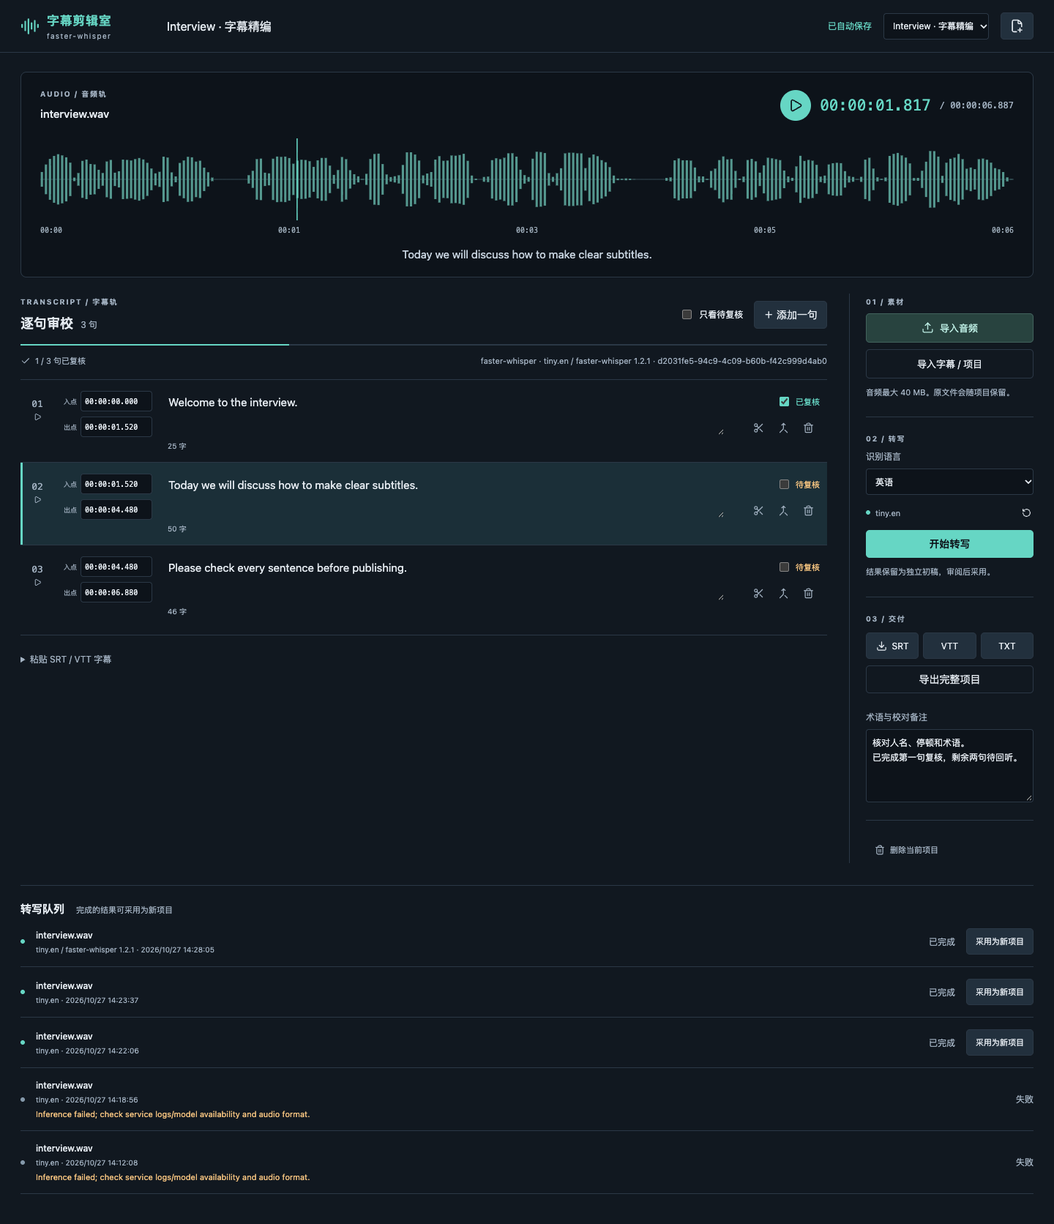
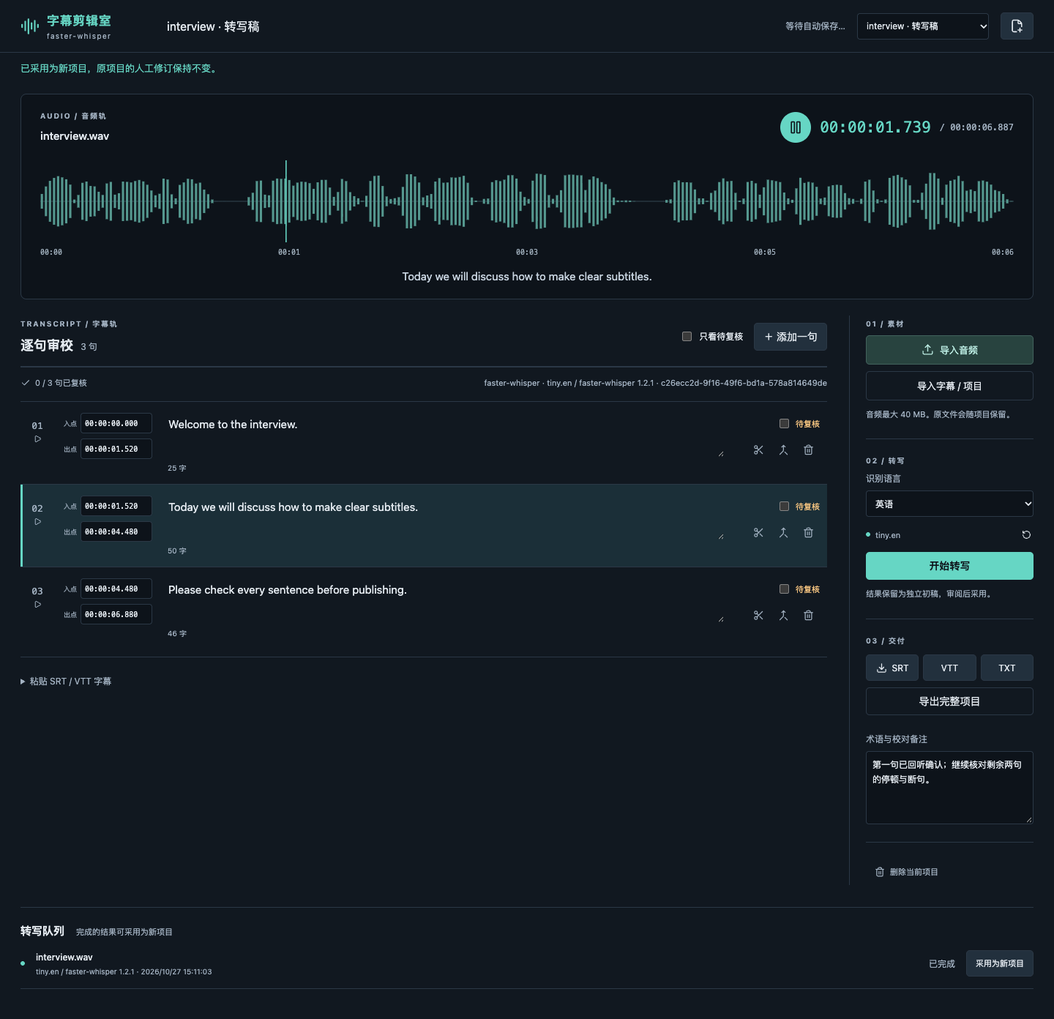
docs: publish AI workbench 0.4.0 acceptance and screenshot gallery

diff --git a/README.md b/README.md
@@ -6,9 +6,9 @@
 
 ## 当前进度
 
-当前版本 **0.3.0** · **26 / 55 个工作台已完成本地验收**，其余 29 个为计划项目。各上游库的集成范围以项目 README 为准。Floatboat 客户端导入流程尚未实测。
+当前批次 **0.4.0** · **32 / 61 个工作台已完成本地功能验收**，其余29个为计划项目。新增6个AI工作台为0.4.0，既有26个保留0.3.0版本与验收记录。Floatboat客户端导入尚未实测。
 
-本轮由 **10 个子 agent、10 个独立 worktree** 完成第 18–27 项，按环境上限保持 3 个子 agent 同时运行并陆续补位。全部 26 项使用同一版自动保存修复：快速编辑后撤回时恢复正确的保存状态和本机内容，旧缓存、异步验证、失败重试与冲突分别处理。
+本批在6个独立worktree分批并行实现。自动保存、未完成草稿、冲突与容量边界是共同验收项；界面按产品任务分别设计。AI引擎、模型和外部服务的验证范围单列在[0.4.0验收](docs/release-0.4.0.md)，配置方式见[AI服务说明](docs/ai-services.md)。
 
 | 项目 | 已实现流程 | 界面方向 |
 | --- | --- | --- |
@@ -38,20 +38,26 @@
 | [farmOS-map](workbenches/53-farmos-map/) | 地块绘制、边界调整、备注与 GeoJSON 导出 | 地图与地块记录 |
 | [Mirador](workbenches/54-mirador/) | 本地图像、双页对照、逐页复核与报告导出 | 双图光台与复核账本 |
 | [OpenSheetMusicDisplay](workbenches/55-opensheetmusicdisplay/) | MusicXML/MXL 导入、谱面校审、批注及原件/SVG 导出 | 乐谱纸张与边注 |
+| [LangExtract](workbenches/56-langextract/) | 原文、JSONL证据定位、字段复核、人工修订与CSV/JSONL/项目导出 | 原文纸张与证据账本 |
+| [Docling](workbenches/57-docling/) | DoclingDocument结构树、文本/表格校订、顺序、JSON/Markdown/CSV与HTML连接器 | 结构轨、校样纸张与表格检查器 |
+| [LangGraph.js](workbenches/58-langgraph/) | 真实StateGraph、人工中断/恢复、SQLite检查点、交付与项目导出 | 三站复核流程与运行账本 |
+| [Promptfoo](workbenches/59-promptfoo/) | 真实评测结果矩阵、基线、人工复核、限定套件执行器与CSV/JSON导出 | 用例×版本矩阵与结果对照 |
+| [faster-whisper](workbenches/60-faster-whisper/) | 音频保存/回听、真实CPU转写、字幕时间编辑与SRT/VTT/完整项目导出 | 暗色波形、字幕行与任务队列 |
+| [Presenton](workbenches/61-presenton/) | 资料、大纲、页序、备注、审阅、便携稿与异步制作服务连接器 | 逐页缩略轨、演示舞台与资料简报 |
 
-统一验证：**26 项构建、208 项应用测试、3 项工具测试、26 个源包**通过；另有最终共享客户端的 9 组 Chrome/SQLite 核心回归及旧缓存/畸形响应补充检查。业务浏览器证据与范围见 [0.3.0 发布验收](docs/release-0.3.0.md)。
+本批统一验证：**6项构建、106项应用测试、14项独立服务测试、3项工具测试和6个源码包**通过。真实上游执行包含LangGraph流程恢复、Promptfoo回显评测、Docling HTML转换和faster-whisper英语CPU转写；其他模型/服务条件见发布验收。
 
-历史批次：[0.2.0 自动保存与布局](docs/release-0.2.0.md)、[2–11 批次验收](docs/batch-02-11.md)。历史真实 Host 调用记录保留，此轮没有重新执行这些模型调用。
+既有26项的构建、208项应用测试与源码包记录见[0.3.0验收](docs/release-0.3.0.md)，本批未重跑未修改的既有应用。历史批次：[0.2.0](docs/release-0.2.0.md)、[2–11](docs/batch-02-11.md)。
 
 仓库级 React Best Practices 与 Web Design Guidelines 已安装，入口见 `AGENTS.md`；各产品的设计原则见 [设计说明](docs/design-principles.md)。
 
 行业补充调研：[28 个小众行业候选](docs/research/niche-industry-candidates.md)。Maker.js、SeqViz、farmOS-map、Mirador 与 OpenSheetMusicDisplay 已实现；其余候选仍处于研究或计划阶段。第12–17项的独立服务接入条件见各自目录。
 
-AI 补充调研：[32 个 AI 项目与工作台选型](docs/research/ai-workbench-candidates.md)。覆盖文档抽取、知识图谱、Agent、评测、字幕、配音、课件和视觉生成，另含 3 个通用组件；已列明接口、独立服务、模型许可和维护边界。首批建议验证 LangExtract、Docling、LangGraph.js、Promptfoo、faster-whisper、Presenton，目前均为研究状态，不计入已实现数量。
+AI 补充调研：[32 个 AI 项目与工作台选型](docs/research/ai-workbench-candidates.md)。覆盖文档抽取、知识图谱、Agent、评测、字幕、配音、课件和视觉生成，另含 3 个通用组件；已列明接口、独立服务、模型许可和维护边界。其中6项已完成本地功能验收，其余26项仍处于研究阶段；正式模型/外部服务范围以各项目说明为准。
 
 ## 工作台实景
 
-以下为 26 个已实现项目的真实 Chrome 界面，使用普通示例资料。点击预览进入项目说明；图片未经过界面合成或像素修饰。采集版本、原始尺寸与哈希见 [截图说明](docs/screenshots/README.md)。
+以下为 32 个已验收本地工作台的真实 Chrome 界面，使用普通示例资料。点击预览进入项目说明；图片未经过界面合成或像素修饰。采集版本、原始尺寸与哈希见 [截图说明](docs/screenshots/README.md)。
 
 | | |
 | --- | --- |
@@ -68,6 +74,9 @@ AI 补充调研：[32 个 AI 项目与工作台选型](docs/research/ai-workbenc
 | **[GrapesJS · 页面设计](workbenches/27-grapesjs/)**<br>[<img src="docs/screenshots/grapesjs.png" alt="GrapesJS · 页面设计工作台实景" width="440">](workbenches/27-grapesjs/) | **[Maker.js · 参数制图](workbenches/51-makerjs/)**<br>[<img src="docs/screenshots/makerjs.png" alt="Maker.js · 参数制图工作台实景" width="440">](workbenches/51-makerjs/) |
 | **[SeqViz · 序列审阅](workbenches/52-seqviz/)**<br>[<img src="docs/screenshots/seqviz.png" alt="SeqViz · 序列审阅工作台实景" width="440">](workbenches/52-seqviz/) | **[farmOS-map · 地块](workbenches/53-farmos-map/)**<br>[<img src="docs/screenshots/farmos-map.png" alt="farmOS-map · 地块工作台实景" width="440">](workbenches/53-farmos-map/) |
 | **[Mirador · 文献对照](workbenches/54-mirador/)**<br>[<img src="docs/screenshots/mirador.png" alt="Mirador · 文献对照工作台实景" width="440">](workbenches/54-mirador/) | **[OpenSheetMusicDisplay · 乐谱校审](workbenches/55-opensheetmusicdisplay/)**<br>[<img src="docs/screenshots/opensheetmusicdisplay.png" alt="OpenSheetMusicDisplay · 乐谱校审工作台实景" width="440">](workbenches/55-opensheetmusicdisplay/) |
+| **[LangExtract · 原文纸张与证据账本](workbenches/56-langextract/)**<br>[<img src="docs/screenshots/langextract.png" alt="LangExtract 工作台实景" width="440">](workbenches/56-langextract/) | **[Docling · 结构轨、校样纸张与表格检查器](workbenches/57-docling/)**<br>[<img src="docs/screenshots/docling.png" alt="Docling 工作台实景" width="440">](workbenches/57-docling/) |
+| **[LangGraph.js · 三站复核流程与运行账本](workbenches/58-langgraph/)**<br>[<img src="docs/screenshots/langgraph.png" alt="LangGraph.js 工作台实景" width="440">](workbenches/58-langgraph/) | **[Promptfoo · 用例×版本矩阵与结果对照](workbenches/59-promptfoo/)**<br>[<img src="docs/screenshots/promptfoo.png" alt="Promptfoo 工作台实景" width="440">](workbenches/59-promptfoo/) |
+| **[faster-whisper · 暗色波形、字幕行与任务队列](workbenches/60-faster-whisper/)**<br>[<img src="docs/screenshots/faster-whisper.png" alt="faster-whisper 工作台实景" width="440">](workbenches/60-faster-whisper/) | **[Presenton · 逐页缩略轨、演示舞台与资料简报](workbenches/61-presenton/)**<br>[<img src="docs/screenshots/presenton.png" alt="Presenton 工作台实景" width="440">](workbenches/61-presenton/) |
 
 自动保存区分待保存、同步中、已保存、待完善草稿、离线和版本冲突。后台保存时仍可编辑；项目导入创建独立项目，未完成输入可恢复。浏览器本机缓存限定同一来源。
 

diff --git a/docs/release-0.4.0.md b/docs/release-0.4.0.md
@@ -1,0 +1,63 @@
+# 0.4.0 AI 工作台验收
+
+日期：2026-10-27。本批新增6个独立工作台，仓库共32个完成本地功能验收、29个计划项目。六项都包含自动保存、可恢复工作稿、人工编辑/复核和导出；模型与独立服务的真实执行范围分别记录。既有26项仍为0.3.0，本批未修改其业务源码或重跑其全部验收。
+
+六个Git worktree分批并行，五个实现子代理与主线程分别负责产品；集成时另做独立只读审查和针对性修复。没有改动固定模板SDK、tooling或CSP。模板仍固定在 `3b55d46f7ae25e939ce3299073c37ed334d69c02`。
+
+## 检查结果
+
+主仓库完成 **6项构建、106项应用测试、14项独立服务测试、3项工具测试及6个源码包**。应用测试总数采用最终Presenton修复后的29项；主仓库整批检查后，对其修复重新检查、测试和打包。Docling的应用包版本也已对齐0.4.0并重新检查/打包。
+
+| 工作台 | 应用测试 | 服务测试 | 已验证的本地工作流与真实上游范围 |
+| --- | ---: | ---: | --- |
+| [LangExtract](../workbenches/56-langextract/ACCEPTANCE.md) | 17 | 7 | JSONL证据定位、修订、导出；真实LangExtract管线使用明确stub provider，**不是模型推理** |
+| [Docling](../workbenches/57-docling/app/ACCEPTANCE.md) | 23 | — | 结构/文本/表格校订、顺序、导出；真实Docling core转换HTML并回读校订JSON |
+| [LangGraph.js](../workbenches/58-langgraph/ACCEPTANCE.md) | 11 | — | 真实StateGraph运行、中断、人工复核、SQLite检查点及进程重启恢复 |
+| [Promptfoo](../workbenches/59-promptfoo/ACCEPTANCE.md) | 11 | 3 | 真实结果矩阵、基线、人工复核；真实Promptfoo evaluator回显评测及Node执行器 |
+| [faster-whisper](../workbenches/60-faster-whisper/ACCEPTANCE.md) | 15 | 4 | 音频保存/回听、字幕编辑/导出；真实tiny.en CPU INT8转写，主仓库再次完整验证 |
+| [Presenton](../workbenches/61-presenton/app/ACCEPTANCE.md) | 29 | — | 大纲/逐页审阅/导出、持久制作记录；官方异步API与下载的合同测试，live生成未验证 |
+
+服务测试数字包括边界/队列/HTTP合同验证，不代表相同数量的模型调用。Docling和Presenton的HTTP fixture测试计入应用测试，未算作真实上游运行。所有六项均运行了真实Chrome主任务与响应式检查，截图为浏览器原图。
+
+环境：Node22.22.2、pnpm10.22.0、Python3.12.13、Chrome headless。部分单页及共享自动保存模块触发体积提示，未压制检查；没有类型、构建或测试失败留待发布后处理。
+
+## 自动保存与运行状态
+
+除了普通编辑/刷新，本批验证：保存响应延迟期间继续输入；服务已提交但回执丢失后的同mutation重试；未完成JSON/日期/字幕时间草稿；新项目导入不覆盖旧项目；两窗口冲突和本机恢复；完整项目与普通导出。正式模型和工作稿采用不同边界，达到模型容量后仍可恢复、导出和导入工作稿。超出工作稿或传输容量时明确提示，不能显示成服务器已保存。
+
+集成审查修复并回归了以下边界：
+
+- LangExtract服务响应必须对应原任务ID和输入来源。
+- Promptfoo任务终态不能被迟到提交/轮询覆盖；未确认操作阻止无提示新建；新报告校准基线列。
+- Promptfoo数据型字段拒绝环境模板、文件/包/外部提示引用；固定套件只保留声明的字面数据与简单变量，实际调用上游前进行验证。
+- LangExtract、Docling、Promptfoo、faster-whisper及Presenton工作稿独立恢复，便携文件包含未完成编辑输入。容量回归覆盖真实SQLite关闭重开、浏览器刷新和导入往返。
+- faster-whisper取消/完成状态不会被迟到结果复活，远程服务要求HTTPS，响应大小限制后关闭读取。
+- Presenton在提交前持久化本地操作；丢回执且列表/详情查询失败时仍保留未知状态，刷新后按原ID核对。再次制作需要明确确认。便携/恢复导入不再清除未完成JSON。
+
+这些是应用内恢复保证；未宣称任意第三方模型请求可以exactly-once计费。关闭页面或停止本地跟踪也不等于取消上游已发出的推理。IndexedDB仅在同一浏览器来源内恢复，跨端口、设备或安装应使用合适的便携文件/数据迁移。
+
+## 上游与交付边界
+
+- **LangExtract**：真实模型提供方尚未配置/验证；可使用本地JSONL资料审校。没有Host→Python provider bridge。
+- **Docling**：本版上传HTML；校订DoclingDocument JSON。没有实现PDF/DOCX上传或预览、OCR和视觉模型；官方Serve live往返未验证。
+- **LangGraph**：填写资料模式实际执行核心库。Host模型分支已实现，当前Host断开，未取得真实成功输出。
+- **Promptfoo**：真实运行的是回显提供者及断言，不是模型效果测试。模型模式需要在独立执行器配置提供方。
+- **faster-whisper**：只验证tiny.en英语短录音、CPU INT8路线。其他语言/模型、GPU、长录音质量与容量不作已验证承诺。服务锁定PyAV16.0.1以匹配faster-whisper1.2.1。
+- **Presenton**：当前本地大纲与文稿流程可用。真实生成、上游PPTX/PDF渲染与文件递送需配置独立服务后验证；目前的HTTP fixture不代表真实文件生产链路。
+
+六个源码包均未经过Floatboat客户端导入验收。Python、模型、独立执行器、提供方凭据和预览数据不随普通源码包打包；后端部署步骤见[AI服务说明](ai-services.md)及各项目README。
+
+## 代码与截图
+
+产品结构分别为证据书桌、结构校样、三站复核、评测矩阵、字幕音轨和逐页演示舞台。各目录的 `app/DESIGN.md` 和 `app/ENGINEERING.md` 记录选择；React与Web界面规则已应用。截图、版本、尺寸和摘要见[截图清单](screenshots/README.md)。
+
+主仓库的批量命令可重跑：
+
+```sh
+pnpm batch check --from 56 --to 61
+pnpm batch test --from 56 --to 61
+pnpm batch package --from 56 --to 61
+pnpm test:tooling
+```
+
+批量日志保存在忽略的 `.cache/batch/`。公开源码只包含普通示例和验收结论；真实用户数据、模型缓存、测试临时库与连接配置没有入库。

diff --git a/docs/ai-services.md b/docs/ai-services.md
@@ -1,0 +1,38 @@
+# AI 工作台的运行方式
+
+0.4.0 的六个工作台都有本地项目、自动保存、草稿恢复、人工编辑和导出。模型与上游服务按下表独立配置。普通 `.fbworkbench` 是源码包，不包含运行中的服务、模型权重、凭据或开发预览数据；客户端导入尚未实测。
+
+| 工作台 | 无外部服务时可用 | 执行新任务所需 | 本次真实执行证据 |
+| --- | --- | --- | --- |
+| [LangExtract](../workbenches/56-langextract/README.md) | 文本/字段编辑、JSONL证据复核、修订与导出 | 独立Python LangExtract服务及模型提供方 | 真实库管线＋明确stub模型，非模型推理 |
+| [Docling](../workbenches/57-docling/README.md) | DoclingDocument JSON结构、文本和表格校订 | 官方Docling Serve；本版提交HTML | 真实Docling core的HTML转换与校订JSON回读；Serve live未测 |
+| [LangGraph.js](../workbenches/58-langgraph/README.md) | 填写资料、真实流程执行、人工暂停/恢复、交付记录 | 模型整理分支需要已连接Floatboat Host | 真实StateGraph/SQLite检查点及进程重启；Host成功调用未测 |
+| [Promptfoo](../workbenches/59-promptfoo/README.md) | 结果矩阵、基线比较、人工复核、原始结果/CSV | 独立Node执行器；模型模式另配提供方 | 真实Promptfoo evaluator回显评测，非模型质量评测 |
+| [faster-whisper](../workbenches/60-faster-whisper/README.md) | 音频保存/回听、字幕编辑和导出 | 独立Python推理服务及指定模型 | tiny.en CPU INT8真实转写，短英语录音完整链路 |
+| [Presenton](../workbenches/61-presenton/README.md) | 素材、大纲、逐页审阅和便携文稿 | 已部署Presenton服务、其API key与模型 | 接口合同与本地任务流程；真实生成/PPTX/PDF文件递送未测 |
+
+## 本地预览
+
+从仓库根目录运行 `pnpm workbench prepare <slug>`，再运行 `pnpm workbench dev <slug>`。工作台页面只访问自己的同源接口，Node服务再连接预先配置的上游。工作台中不能填写模型密钥；服务端环境配置不随项目/源码包导出。
+
+可以采用以下同机端口分配，避免不同服务占用同一端口；这不是自动部署命令：
+
+| 服务 | 示例地址 | 工作台进程的配置变量 |
+| --- | --- | --- |
+| LangExtract adapter | `http://127.0.0.1:8767` | `LANGEXTRACT_SERVICE_URL`、`LANGEXTRACT_SERVICE_TOKEN` |
+| faster-whisper adapter | `http://127.0.0.1:8768` | `FASTER_WHISPER_URL`、可选 `FASTER_WHISPER_TOKEN` |
+| Promptfoo runner | `http://127.0.0.1:8770` | `PROMPTFOO_RUNNER_URL`、可选 `PROMPTFOO_RUNNER_TOKEN` |
+| Docling Serve | `http://127.0.0.1:5001` | `DOCLING_SERVE_URL`、按服务配置 `DOCLING_SERVE_API_KEY` |
+| Presenton | `http://127.0.0.1:5002` | `PRESENTON_URL`、`PRESENTON_API_KEY` |
+
+每个项目README给出精确依赖和启动方法。Presenton官方示例常用5001端口，同时运行Docling时应将其主机端口映射为5002并对应修改URL。远程地址使用HTTPS，来源/鉴权约束按各连接器校验。不要把模型key写进公开脚本、项目JSON或截图。
+
+LangGraph模型整理走真正的Host SDK，由Floatboat管理模型与凭据。本轮Host未连接；其他Python/HTTP服务不会因为Host有LLM能力就自动兼容它。LangExtract目前没有Host→Python provider bridge。
+
+## 保存与任务恢复
+
+编辑草稿与运行任务分开保存。完成的模型结果先进入独立结果/新项目，避免覆盖正在修改的内容。提交回执不明确时保留原操作标识并查询；仅在后端明确提供幂等协议时重试同一任务。Presenton/Docling的上游提交不按通用HTTP幂等服务处理；未确认时需要关联原任务或明确决定后续操作。
+
+每项有自己的容量上限。超过正式模型上限的未完成输入会保持草稿状态；支持恢复的工作稿仍有独立边界。UI会区分服务器保存、未完成草稿、本机保留、离线和冲突。IndexedDB恢复限定同一浏览器来源；改变预览端口或换设备不会自动迁移本机离线副本。较大资料应拆分项目，或使用便携导出转移。
+
+源码包默认不包含业务数据。Python与执行器目录随Git仓库提供；部署后端与安装工作台是两个步骤。批次验收、版本与各项限制见[0.4.0验收](release-0.4.0.md)。

diff --git a/docs/research/ai-workbench-candidates.md b/docs/research/ai-workbench-candidates.md
@@ -1,10 +1,10 @@
 # AI 工作台选型：32 个项目
 
-核查日期：**2026-10-27**。三个研究子代理分别核查知识与研究、Agent 与评测、创作与语音，主线程补充交互组件和推理基础库。与现有 `catalog.json` 的 55 个项目按上游仓库去重后，本次研究 **32 个新项目**：29 个产品/任务引擎与 3 个通用组件，包含 2 个已归档的参考项。
+核查日期：**2026-10-27**。三个研究子代理分别核查知识与研究、Agent 与评测、创作与语音，主线程补充交互组件和推理基础库。与立项前 `catalog.json` 的 55 个项目按上游仓库去重后，本次研究 **32 个新项目**：29 个产品/任务引擎与 3 个通用组件，包含 2 个已归档的参考项。
 
 **建议先验证 LangExtract、Docling、LangGraph.js、Promptfoo、faster-whisper、Presenton。** 它们分别产出可复核的记录、文档结构、可恢复流程、评测报告、字幕和课件，容易定义真实输入输出。随后根据服务条件增加 LightRAG、Langfuse、Kokoro 和 ComfyUI。
 
-这是选型研究，不是交付清单：本轮未安装这些项目、下载模型、执行推理、接通 Host 或构建工作台。仓库仍是 **26 / 55 项完成本地验收**；以下项目均未加入实现目录。表内工作流、布局和适配方式是工程建议，不能视为上游现成的完整产品功能。
+**实现更新（0.4.0）**：LangExtract、Docling、LangGraph.js、Promptfoo、faster-whisper、Presenton 已完成本地功能验收；仓库为 **32 / 61 项**，其余26个AI候选仍为研究状态。模型与上游服务的真实执行范围、尚未验证项见[发布验收](../release-0.4.0.md)。下文保留初筛时的工作流与排序，不能据此扩大已实现范围。
 
 ## 下一批怎么排
 
@@ -92,6 +92,6 @@
 - [Agent、评测与观测](ai-agent-candidates.md)：9 个候选＋Flowise 排除说明。
 - [语音与创意生产](ai-creative-candidates.md)：10 项，含 IOPaint、F5-TTS 条件/观察项。
 - [交互与推理基础组件](ai-integration-components.md)：3 项。
-- [结构化研究清单](ai-candidates.json)：32 个唯一上游，状态均为 `research-only`，与产品实现目录分开。
+- [结构化研究清单](ai-candidates.json)：32 个唯一上游，6项本地功能已验收、26项保留研究状态；每项的上游执行范围单列。
 
 来源以官方仓库、许可证、模型卡和维护者文档为主。维护信号和版本来自核查当日，开始实现时仍需固定 release/commit 并复核对应接口；`pushed_at` 不等于正式版本，也不证明稳定性。

diff --git a/docs/screenshots/README.md b/docs/screenshots/README.md
@@ -1,8 +1,8 @@
 # 工作台实景截图
 
-真实 Chrome 运行界面，使用原创或有许可的示例资料。图片为浏览器原生 PNG，未合成 UI、重绘内容或修改像素。采集日期：2026-10-27。
+真实Chrome运行界面，使用普通示例资料。图片为浏览器原生PNG，未合成界面或修改像素。采集日期：2026-10-27。
 
-既有 16 项沿用 0.2.0 采集的界面；新增 10 项在本批采集。源码统一为0.3.0，共同保存修复不改变这些正常工作状态的布局。
+既有26项保留历史采集版本；本批新增6项0.4.0界面。AI截图中的示例、真实引擎输出和未连接状态按项目验收记录区分。
 
 | 图片 | 采集版本 | 原始尺寸 | 大小 | SHA-256 |
 | --- | --- | --- | --- | --- |
@@ -32,5 +32,11 @@
[9 lines of base64/hex data omitted]
 
-共26张，合计 3.39 MiB。
+共32张，合计 4.26 MiB。

diff --git a/docs/design-principles.md b/docs/design-principles.md
@@ -57,3 +57,16 @@ Vercel React Best Practices 用于加载、数据获取和渲染效率；Web Des
 | Fabric.js | 对象化海报画板与检查器 |
 | Filerobot Image Editor | 照片舞台与原生调节工具 |
 | GrapesJS | 网页画布与组件、样式面板 |
+
+## 0.4.0 AI 工作台
+
+| 产品 | 原生操作空间 |
+| --- | --- |
+| LangExtract | 原文纸张、证据账本、区间高亮与人工修订层 |
+| Docling | 冷灰蓝结构轨、校样纸面、逐格表格检查器 |
+| LangGraph.js | 横向三站复核流程、输入与确认结果、运行账本 |
+| Promptfoo | 用例×提示版本矩阵、基线输出对照、逐项发布判断 |
+| faster-whisper | 暗色波形与播放头、字幕入出点、回听及转写队列 |
+| Presenton | 逐页缩略轨、演示舞台、资料简报与制作记录 |
+
+模型输出、人工修订和保存状态分别表达。未接通服务时保留已有业务操作，并把运行入口的状态说清楚。每个工作台保留自己的工作对象与密度；截图展示实际运行页面。

diff --git a/workbenches/60-faster-whisper/ACCEPTANCE.md b/workbenches/60-faster-whisper/ACCEPTANCE.md
@@ -35,3 +35,5 @@ Python/模型与服务数据均不在 `.fbworkbench` 内，启动方式见项目
 截图为真实浏览器中的工作台，含实际音频波形、真实转写结果和人工复核状态，未合成或改像素；尺寸及 SHA-256 记录在结构化验收文件中。
 
 容量恢复补验：正式字幕模型限750KB，工作副本独立限1.25MB；未完成的长字幕可保留至8000字符，粘贴原稿限100000字符。原生控件和业务变换在恢复上限前拦截；超模型上限时SQLite保存为draft并完整恢复，便携项目仍使用工作稿decoder，音频保留规则不变。新增测试验证真实SQLite草稿记录与便携内容往返。
+
+针对性Chrome容量回归已执行：749000字节基线继续编辑至7000字的未完成字幕，服务器保存为draft，刷新和完整项目导入往返均恢复7000字；项目名称控件限制120字符，无pageerror。
